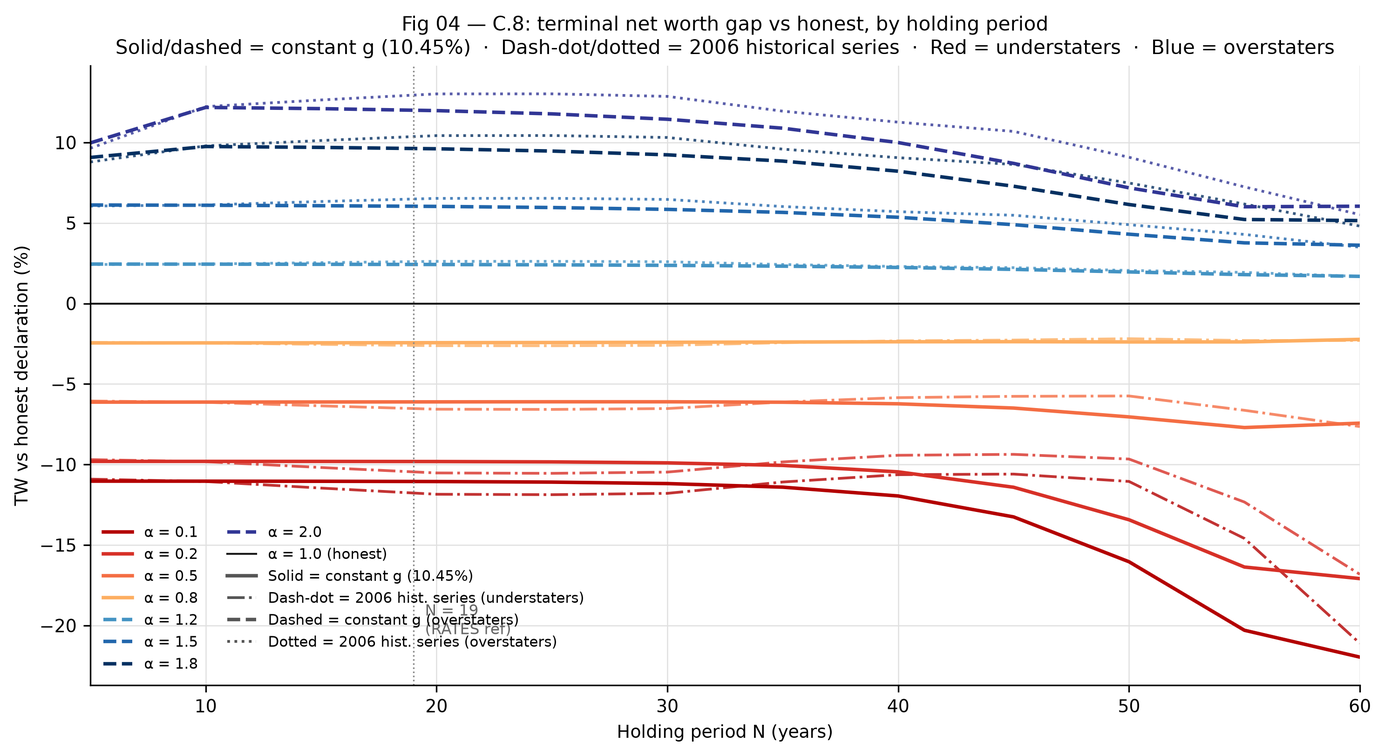
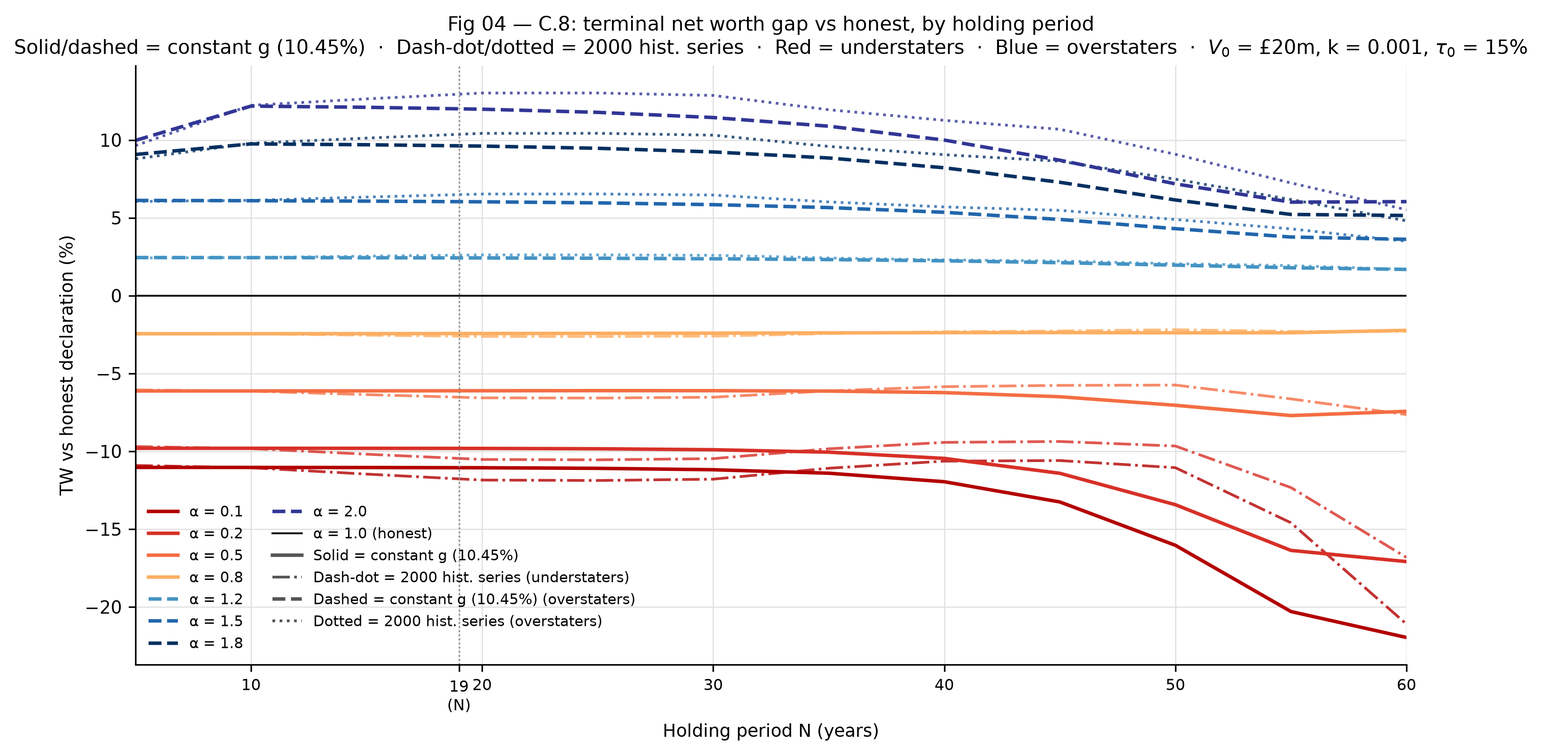
Fixed build pipeline

diff --git a/model/5_6_VAL_generate_figures.py b/model/5_6_VAL_generate_figures.py
@@ -53,6 +53,8 @@ import matplotlib.pyplot as plt
 import matplotlib.colors as mcolors
 import matplotlib.ticker
 import numpy as np
+from matplotlib.lines import Line2D
+from matplotlib.patches import Patch
 
 from wdt_core import (load_params, tau, simulate, simulate_sell,
                       settle_tw, run_sim, decompose_tw_advantage,
@@ -313,22 +315,32 @@ def fig_04_tw_gap_by_n(p):
                 linestyle=':', alpha=0.8)
 
     ax.axhline(0, color=C_HONEST, linewidth=1.0, linestyle='-', label='α = 1.0 (honest)')
-    ax.axvline(p['N'], color=C_ANNOTATION, linewidth=0.8, linestyle=':')
-    ylo = ax.get_ylim()[0]
-    ax.text(p['N'] + 0.5, ylo * 0.88,
-            f'N = {p["N"]}\n(RATES ref)', fontsize=8, color='#666666', va='bottom')
+    scen_N = p['N']
+    ax.axvline(scen_N, color=C_ANNOTATION, linewidth=0.8, linestyle=':')
+    # inject N into the existing x-axis ticks as a small labelled tick
+    existing_ticks = list(ax.get_xticks())
+    if scen_N not in existing_ticks:
+        existing_ticks = sorted(existing_ticks + [scen_N])
+        ax.set_xticks(existing_ticks)
+    tick_labels = [
+        f'{int(t)}\n(N)' if t == scen_N else (str(int(t)) if t == int(t) else '')
+        for t in ax.get_xticks()
+    ]
+    ax.set_xticklabels(tick_labels, fontsize=8)
+    ax.tick_params(axis='x', which='major')
 
-    from matplotlib.lines import Line2D
+    scen_year = p['scenario_start_year']
     style_handles = [
         Line2D([0], [0], color='#555555', lw=1.8, linestyle='-',
-               label='Solid = constant g (10.45%)'),
+            label=f'Solid = constant g ({p["g"]*100:.2f}%)'),
         Line2D([0], [0], color='#555555', lw=1.4, linestyle='-.',
-               label='Dash-dot = 2006 hist. series (understaters)'),
+            label=f'Dash-dot = {scen_year} hist. series (understaters)'),
         Line2D([0], [0], color='#555555', lw=1.8, linestyle='--',
-               label='Dashed = constant g (overstaters)'),
+            label=f'Dashed = constant g ({p["g"]*100:.2f}%) (overstaters)'),
         Line2D([0], [0], color='#555555', lw=1.4, linestyle=':',
-               label='Dotted = 2006 hist. series (overstaters)'),
+            label=f'Dotted = {scen_year} hist. series (overstaters)'),
     ]
+
     h1, l1 = ax.get_legend_handles_labels()
     ax.legend(handles=h1 + style_handles,
               loc='lower left', ncol=2, fontsize=7.5)
@@ -337,8 +349,10 @@ def fig_04_tw_gap_by_n(p):
     ax.set_ylabel("TW vs honest declaration (%)")
     ax.set_title(
         "Fig 04 — C.8: terminal net worth gap vs honest, by holding period\n"
-        "Solid/dashed = constant g (10.45%)  ·  Dash-dot/dotted = 2006 historical series  "
-        "·  Red = understaters  ·  Blue = overstaters"
+        f"Solid/dashed = constant g ({p['g']*100:.2f}%)  ·  "
+        f"Dash-dot/dotted = {scen_year} hist. series  ·  "
+        f"Red = understaters  ·  Blue = overstaters  ·  "
+        f"$V_0$ = £{p['V0_m']:.0f}m, k = {p['k']}, $\\tau_0$ = {p['tau_0']*100:.0f}%"
     )
     ax.set_xlim(N_ACTUAL_VALS[0], N_ACTUAL_VALS[-1])
 
@@ -432,8 +446,7 @@ def fig_05_saturation_reversal(p):
     ax.set_xlim(0, 35)
     ax.set_ylim(-5, 120)
 
-    from matplotlib.lines import Line2D
-    from matplotlib.patches import Patch
+
     legend_handles = [
         Line2D([0], [0], color='#333333', lw=1.1, linestyle='--',
                label=f'Inflection ≈ {mean_inflection:.1f}% (rate fn property)'),

diff --git a/pipeline/preprocess.py b/pipeline/preprocess.py
@@ -27,7 +27,7 @@ from pages.corpus import generate_corpus_qmd
 from pages.references import generate_references_qmd
 from pages.site_index import copy_machine_readable_assets
 from transforms import process_file, strip_latex, convert_crossrefs
-
+from link_map import generate_link_map_html
 
 # ── Tool metadata ─────────────────────────────────────────────────────────────
 # Maps source filename stem → (title, description)
@@ -200,6 +200,8 @@ def main() -> None:
         generate_flowcharts_qmd(build)
     else:
         print("  ! site/diagrams/ not found — skipping flowcharts.qmd")
+
+    generate_link_map_html(build / "link-map.html", site_cfg.refs_data, site_cfg.link_map)
 
     # ── Machine-readable static endpoints + site-index.json ──────────────
     copy_machine_readable_assets(

diff --git a/model/8_3_RATES_output.py b/model/8_3_RATES_output.py
@@ -121,10 +121,9 @@ def write_output_md(p, py_ssm, py_tcm, tcm_N, sweep_extremals, stats,
     4.  Start-year sweep
     5.  Statistical pass
     """
-    run_date = datetime.date.today().strftime('%y%m%d')
     meta     = p.get('meta', {})
     scenario = meta.get('scenario_label', 'unknown')
-    fname    = f"7_5_{run_date}_WDT_Rates_Revenue_Output.md"
+    fname    = f"7_5_WDT_Rates_Revenue_Output.md"
     _out     = Path(output_dir) if output_dir else OUTPUT_DIR
     _out.mkdir(parents=True, exist_ok=True)
     out_path = _out / fname

diff --git a/pipeline/link_map.py b/pipeline/link_map.py
@@ -338,7 +338,7 @@ let frozen = false;
 let animId = null;
 
 const NODE_W = 72, NODE_H = 32;
-const REPEL = 1800, ATTRACT = 0.012, DAMP = 0.94, CENTER_F = 0.006;
+const REPEL = 500, ATTRACT = 0.012, DAMP = 0.94, CENTER_F = 0.006;
 
 // ── Build links ───────────────────────────────────────────────────────────
 function buildLinks() {

diff --git a/docs/wdt-site-architecture.md b/docs/wdt-site-architecture.md
@@ -23,12 +23,13 @@ wdt-site/
 │   ├── config.py               (path constants, parse_human_date(), extract_paper_meta(), SiteConfig, load())
 │   ├── transforms.py           (6-step per-paper transforms: LaTeX strip, image paths, cross-refs, biblio, front matter, JSON-LD)
 │   ├── diagrams.py             (DIAGRAMS registry, render_pngs() via mmdc, generate_flowcharts_qmd())
+│   ├── link_map.py             (generate_link_map_html() — generates _build/link-map.html)
 │   └── pages/
 │       ├── __init__.py
 │       ├── corpus.py           (generate_corpus_qmd())
 │       ├── references.py       (generate_references_qmd())
 │       ├── site_index.py       (generate_site_index(), copy_machine_readable_assets())
-│       └── link_map.py         (generate_link_map_html())
+
 ├── registry/
 │   ├── contents.yml            (single source of truth for paper/section hierarchy — edit by hand)
 │   ├── anchors.yml             (fully generated by build_anchors.py — never edit directly)
@@ -56,7 +57,7 @@ wdt-site/
 │   ├── style/
 │   │   ├── styles.css          (main site-wide CSS)
 │   │   ├── page-components.css (reusable page component styles)
-│   │   ├── tools.css           (styles specific to the /model pages)
+│   │   ├── tools.css           (styles specific to the /tools/ pages)
 │   │   ├── apa.csl             (APA citation style — referenced by _quarto.yml)
 │   │   ├── svg-pan-zoom.min.js (vendored JS — may be unused since PNG migration; verify)
 │   │   └── geocities.html      (opt-in Geocities widget module — not auto-copied to _build/)
@@ -66,12 +67,12 @@ wdt-site/
 │   │   ├── 260812_WDT_Bidirectional_LR.mmd
 │   │   ├── 260812_UK_Tax_Flowchart_LR.mmd
 │   │   └── 260812_UK_Skeleton_LR.mmd
-│   └── model
+│   └── tools/
 │       ├── tools_index.html            (tools landing page — hand-authored)
 │       ├── taxpayer.html               (taxpayer journey interactive tool)
 │       ├── revenue.html                (revenue modeller interactive tool)
 │       ├── run_all.bat                 (batch script: regenerates all tool output files)
-│       ├── 260812_WDT_Params.toml      (shared WDT model parameter file)
+│       ├── WDT_Params.toml      (shared WDT model parameter file)
 │       ├── wdt_core.py                 (core WDT model: WDTModel class, simulation engine)
 │       ├── rates_model.py              (rates model)
 │       ├── val_helpers.py              (VAL paper output helpers)
@@ -139,7 +140,7 @@ Run order (anchors + preprocess only): `pipeline/build.bat` → `build_anchors.p
 - **step (8)** — copy static assets from `site/` into `_build/` (inline in `preprocess.py`)
 - **`pages/site_index.py`** — steps (9)–(10): copy machine-readable data, site-index.json
 - **`diagrams.py`** — step (11): render `.mmd` → PNG via `mmdc`, then write flowcharts.qmd referencing the PNGs
-- **`pages/link_map.py`** — step (12): generate `_build/link-map.html` from `internal_papers` in `refs_data`
+- **`link_map.py (in pipeline/)`** — step (12): generate `_build/link-map.html` from `internal_papers` in `refs_data`
 - **`config.py`** — path constants, `extract_paper_meta()`, `parse_human_date()`, `load(paper_meta)`
 
 ---
@@ -317,7 +318,7 @@ Thin orchestrator. Run order inside `main()`:
 4. Calls `cfg.load(paper_meta=paper_meta)` to build the `SiteConfig`.
 5. Deletes and recreates `_build/`.
 6. Copies `site/` assets into `_build/` (step 8 — see asset copy rules below).
-7. Copies `site/modelOUTPUTS/` → `_build/figures/` (if the directory exists).
+7. Copies `site/model/OUTPUTS/` → `_build/figures/` (if the directory exists).
 8. Calls the auto-generated page generators: `corpus.qmd`, `references.qmd`, `flowcharts.qmd`, machine-readable assets + `site-index.json`.
 9. Calls `process_file()` on each paper.
 
@@ -327,9 +328,9 @@ Thin orchestrator. Run order inside `main()`:
 |-------------|-----------|
 | `site/pages/*.md` | Flattened to `_build/` root; `.md` → `.qmd`; `strip_latex` + `convert_crossrefs` applied |
 | `site/pages/*.qmd` or other | Flattened to `_build/` root; copied verbatim |
-| `site/model*.html` | Copied to `_build/model`; **wrapped in Quarto front matter** via `_wrap_tool_html()`, saved as `.qmd` |
-| `site/model*.py` or `*.toml` | Copied to `_build/model` verbatim — these are **runtime files** that Pyodide loads in the browser |
-| `site/model` other files | Copied to `_build/model` verbatim |
+| `site/model/*.html` | Copied to `_build/model/`; **wrapped in Quarto front matter** via `_wrap_tool_html()`, saved as `.qmd` |
+| `site/model/*.py` or `*.toml` | Copied to `_build/model/` verbatim — these are **runtime files** that Pyodide loads in the browser |
+| `site/model/` other files | Copied to `_build/model/` verbatim |
 | Everything else in `site/` | Copied preserving relative path |
 
 **`_TOOL_META`:** A dict in `preprocess.py` mapping tool HTML stem → `(title, description)`. These become the Quarto front matter `title` and `description` for each tool page. When adding a new tool, add an entry here.
@@ -396,7 +397,7 @@ def load(paper_meta: dict | None = None) -> SiteConfig: ...
     # If omitted (e.g. in tests), uses empty dict and prints a warning.
 ```
 
-**`TOOLS_DIR`:** `ROOT_DIR / "tools"` — this path constant exists in `config.py` but the `model` directory at the repo root does not currently exist. It is likely reserved for a future standalone tools directory separate from `site/model`. Do not confuse with `site/model`.
+**`TOOLS_DIR`:** `ROOT_DIR / "tools"` — this path constant exists in `config.py` but the `tools/` directory at the repo root does not currently exist. It is likely reserved for a future standalone tools directory separate from `site/model/`. Do not confuse with `site/model/`.
 
 **Dependencies:** `registry/contents.yml`, `registry/anchors.yml`, `registry/references.json`, PyYAML
 **Dependants:** `preprocess.py` (calls `extract_paper_meta()` then `load(paper_meta=...)`); `transforms.py` (imports `AUTHOR`, `AFFILIATION`, `DISCLOSURE`, `SITE_URL`); `diagrams.py` (imports `AUTHOR`, `DIAGRAMS_DIR`)
@@ -410,7 +411,7 @@ Six per-paper text transforms applied in order by `process_file()`.
 
 1. **`strip_latex(text)`** — removes `\newpage`, `\medskip`, `\bigskip`, `\\`, `\vspace{...}`, `\hspace{...}`, `\setcounter{...}`, and other LaTeX layout/spacing commands.
 
-2. **`fix_image_paths(text)`** — rewrites all Markdown image paths to `figures/<filename>`. Source files may reference images as `../figures/foo.png`, `figures/foo.png`, or `site/modelOUTPUTS/RATES/foo.png` — all become `figures/foo.png`. This is correct because `preprocess.py` copies all images from `site/modelOUTPUTS/**/*` into `_build/figures/` (flat), and Quarto renders papers at the `_build/` root. HTTP/data URLs are left unchanged.
+2. **`fix_image_paths(text)`** — rewrites all Markdown image paths to `figures/<filename>`. Source files may reference images as `../figures/foo.png`, `figures/foo.png`, or `site/model/OUTPUTS/RATES/foo.png` — all become `figures/foo.png`. This is correct because `preprocess.py` copies all images from `site/model/OUTPUTS/**/*` into `_build/figures/` (flat), and Quarto renders papers at the `_build/` root. HTTP/data URLs are left unchanged.
 
 3. **`convert_crossrefs(text, link_map, anchor_map)`** — converts `(PAPER §X.Y)` and `PAPER §X.Y` patterns to Markdown hyperlinks. Resolves deep links via `anchor_map`; falls back to page root with a warning if section not found.
 
@@ -463,7 +464,7 @@ To add a diagram: add the `.mmd` file to `site/diagrams/` and add an entry to `D
 
 ---
 
-### `pipeline/pages/link_map.py`
+### `pipeline/link_map.py`
 Generates `_build/link-map.html` — the interactive paper cross-reference graph. Called by `preprocess.py` as step (12), after all other page generators.
 
 **`generate_link_map_html(dest_path, refs_data, link_map)`**
@@ -728,12 +729,13 @@ The Quarto project configuration. `preprocess.py` copies this to `_build/` verba
 
 **`project:`**
 - `type: website`, `output-dir: _site`
-- `render: ["*.qmd", "model*.qmd"]` — `model*.qmd` must be listed explicitly; Quarto does not recurse into subdirectories automatically
+- `render: ["*.qmd", "model/*.qmd"]` — `model/*.qmd` must be listed explicitly; Quarto does not recurse into subdirectories automatically
 - `resources:` — copies runtime files as static assets into `_site/`:
-  - `modelwdt_core.py`, `modelrates_model.py`, `model260812_WDT_Params.toml`
+  - `model/wdt_core.py`, `model/rates_model.py`, `model/WDT_Params.toml`
   - `diagrams/` (entire directory — PNGs served at `/diagrams/`)
+  - `link-map.html` (ensures Quarto includes it in `_site/` even though written directly to `_build/`)
 
-**Note on `resources:` vs `preprocess.py` copying:** Both are active. `preprocess.py` copies Python/TOML files into `_build/model` during preprocessing; `resources:` tells Quarto to additionally include them in `_site/` during rendering. The `resources:` block is the authoritative deployment mechanism.
+**Note on `resources:` vs `preprocess.py` copying:** Both are active. `preprocess.py` copies Python/TOML files into `_build/model/` during preprocessing; `resources:` tells Quarto to additionally include them in `_site/` during rendering. The `resources:` block is the authoritative deployment mechanism.
 
 **`website:`**
 - `title`, `description`, `site-url: https://wealthdeltatax.org`
@@ -751,7 +753,7 @@ The Quarto project configuration. `preprocess.py` copies this to `_build/` verba
 | Project Map | `Project-Map.html` |
 | Papers *(dropdown → `corpus.html`)* | see below |
 | Avoidance | `avoidance.html` |
-| Tools | `modeltools_index.html` |
+| Tools | `tools/tools_index.html` |
 | Flowcharts | `flowcharts.html` |
 | References | `references.html` |
 | Glossary | `glossary.html` |
@@ -812,7 +814,7 @@ Hand-authored pages. **Flattened** into the `_build/` root by `preprocess.py` (t
 | `avoidance.md` | `/avoidance.html` | Taxpayer's guide to legally minimising WDT liability | 654 lines; `toc: true` in front matter; includes live Pyodide calculator; uses `.avoid-intro`, `.strategy-block`, `.verdict-box` classes |
 | `revision_history.md` | `/revision_history.html` | Pre-publication revision history for all papers | Section headings use `{.unnumbered .unlisted}` — correctly skipped by `scrape_contents.py` |
 | `glossary.md` | `/glossary.html` | Master WDT glossary | **Generated** by `build_glossary.py` — never edit directly; 738 lines; jump bar covers A–W and Z (letters with no entries are omitted) |
-| `link-map.html` | `/link-map.html` | Interactive paper cross-reference graph | **Generated** by `pipeline/pages/link_map.py` — never edit directly; written to `_build/` not `site/pages/` |
+| `link-map.html` | `/link-map.html` | Interactive paper cross-reference graph | **Generated** by `pipeline/link_map.py` — never edit directly; written to `_build/` not `site/pages/` |
 | `BingSiteAuth.xml` | `/BingSiteAuth.xml` | Bing webmaster verification | Static passthrough — copied unchanged, not renamed to `.qmd` |
 
 Hand-authored pages do not go through paper preprocessing steps. `glossary.md` is overwritten on every full build — edit per-paper `# Glossary` sections in source to change its content.
@@ -821,7 +823,7 @@ Hand-authored pages do not go through paper preprocessing steps. `glossary.md` i
 
 **Note on `Project-Map.md`:** Has no YAML front matter — begins directly with a `# WDT Project Map` heading. `preprocess.py` handles this as a plain copy (flattened and renamed to `.qmd`); Quarto generates the title from the first heading.
 
-**Note on `avoidance.md`:** Contains a Pyodide-powered live calculator. The calculator loads `wdt_core.py` and `rates_model.py` from `/model` at runtime.
+**Note on `avoidance.md`:** Contains a Pyodide-powered live calculator. The calculator loads `wdt_core.py` and `rates_model.py` from `/tools/` at runtime.
 
 **Note on `BingSiteAuth.xml`:** Copied unchanged (not renamed to `.qmd`).
 
@@ -1024,33 +1026,33 @@ To add a diagram: add the `.mmd` file here and add an entry to `DIAGRAMS` in `pi
 
 ---
 
-### `site/model`
+### `site/model/`
 Self-contained interactive tools and the Python model scripts that generate their data. **This directory is not processed by `preprocess.py`.** HTML tool pages are pre-built and served as static files; Python scripts are run locally (via `run_all.bat`) to regenerate output data that the HTML pages consume.
 
 #### HTML tool pages (wrapped as `.qmd` by `preprocess.py`)
 
 | File | Served at | Purpose |
 |------|-----------|---------|
-| `tools_index.html` | `/modeltools_index.html` | Tools landing page |
-| `taxpayer.html` | `/modeltaxpayer.html` | Taxpayer journey interactive tool |
-| `revenue.html` | `/modelrevenue.html` | Revenue modeller interactive tool |
+| `tools_index.html` | `/tools/tools_index.html` | Tools landing page |
+| `taxpayer.html` | `/tools/taxpayer.html` | Taxpayer journey interactive tool |
+| `revenue.html` | `/tools/revenue.html` | Revenue modeller interactive tool |
 
-These are body-fragment HTML files with embedded JS. `preprocess.py` does **not** copy them as static HTML — it wraps each one in Quarto front matter + a `{=html}` raw pass-through block (via `_wrap_tool_html()`) and saves the result as a `.qmd` file in `_build/model`. Quarto then renders the `.qmd` into the site, giving each tool page a proper Quarto layout (navbar, sidebar, footer) while passing the HTML body through unmodified.
+These are body-fragment HTML files with embedded JS. `preprocess.py` does **not** copy them as static HTML — it wraps each one in Quarto front matter + a `{=html}` raw pass-through block (via `_wrap_tool_html()`) and saves the result as a `.qmd` file in `_build/model/`. Quarto then renders the `.qmd` into the site, giving each tool page a proper Quarto layout (navbar, sidebar, footer) while passing the HTML body through unmodified.
 
 `_TOOL_META` in `preprocess.py` maps each HTML stem → `(title, description)` for the Quarto front matter. Add an entry here when adding a new tool page.
 
-#### Python model scripts (runtime files — deployed to `_build/model`)
+#### Python model scripts (runtime files — deployed to `_build/model/`)
 
-The Python scripts in `site/model` **are copied into `_build/model`**. They are loaded at runtime in the browser by **Pyodide** (a Python interpreter compiled to WebAssembly). No Python execution happens on the server — the scripts run client-side when the user interacts with a tool page. `_TOOL_RUNTIME_SUFFIXES = {".py", ".toml"}` in `preprocess.py` controls which suffixes are treated as runtime files and copied verbatim.
+The Python scripts in `site/model/` **are copied into `_build/model/`**. They are loaded at runtime in the browser by **Pyodide** (a Python interpreter compiled to WebAssembly). No Python execution happens on the server — the scripts run client-side when the user interacts with a tool page. `_TOOL_RUNTIME_SUFFIXES = {".py", ".toml"}` in `preprocess.py` controls which suffixes are treated as runtime files and copied verbatim.
 
-The numbered output scripts (`5_3`, `5_4`, `5_6`, `8_3`, `16_2`–`16_7`) are run **locally** (via `run_all.bat`) to regenerate static output data (figures, tables). They are not loaded by Pyodide. Their outputs land in `site/modelOUTPUTS/`, which `preprocess.py` copies to `_build/figures/`.
+The numbered output scripts (`5_3`, `5_4`, `5_6`, `8_3`, `16_2`–`16_7`) are run **locally** (via `run_all.bat`) to regenerate static output data (figures, tables). They are not loaded by Pyodide. Their outputs land in `site/model/OUTPUTS/`, which `preprocess.py` copies to `_build/figures/`.
 
-#### `site/modelOUTPUTS/`
+#### `site/model/OUTPUTS/`
 Generated image and data outputs from the local model scripts. **Not committed to the repo** (in `.gitignore`). `preprocess.py` copies everything in this directory to `_build/figures/` at build time. If the directory does not exist, the figure copy step is skipped with a warning.
 
 | File | Role |
 |------|------|
-| `260812_WDT_Params.toml` | Shared parameter file for the WDT simulation model |
+| `WDT_Params.toml` | Shared parameter file for the WDT simulation model |
 | `wdt_core.py` | Core WDT model: `WDTModel` class and simulation engine |
 | `rates_model.py` | Rates model |
 | `val_helpers.py` | VAL paper output helpers |
@@ -1140,12 +1142,12 @@ After `preprocess.py` completes, `_build/` contains a complete Quarto project:
 - `glossary.qmd` — from `site/pages/glossary.md` (generated by `build_glossary.py`), flattened and renamed to `.qmd`
 - `BingSiteAuth.xml` — from `site/pages/`, copied unchanged (not renamed to `.qmd`)
 - `style/styles.css`, `style/page-components.css`, `style/tools.css`, `style/apa.csl`, `style/svg-pan-zoom.min.js` — from `site/style/`, path preserved
-- `modeltools_index.qmd`, `modeltaxpayer.qmd`, `modelrevenue.qmd` — HTML tool pages **wrapped as `.qmd`** by `_wrap_tool_html()`; not raw HTML
-- `model*.py`, `model*.toml` — runtime files (loaded by Pyodide client-side); copied verbatim from `site/model`
-- `link-map.html` — generated directly to `_build/` by `pipeline/pages/link_map.py` (not copied from `site/pages/`)
+- `tools/tools_index.qmd`, `tools/taxpayer.qmd`, `tools/revenue.qmd` — HTML tool pages **wrapped as `.qmd`** by `_wrap_tool_html()`; not raw HTML
+- `tools/*.py`, `tools/*.toml` — runtime files (loaded by Pyodide client-side); copied verbatim from `site/model/`
+- `link-map.html` — generated directly to `_build/` by `pipeline/link_map.py` (not copied from `site/pages/`)
 - `diagrams/` — PNG renders of all five `.mmd` diagrams at 3600px width, output by `render_pngs()`; also declared in `resources:` so Quarto includes them in `_site/`
 - `style/geocities.html` — copied by Quarto (via `include-in-header`) from `site/style/`; not copied by `preprocess.py`
-- `figures/` — image outputs copied from `site/modelOUTPUTS/` (if directory exists)
+- `figures/` — image outputs copied from `site/model/OUTPUTS/` (if directory exists)
 
 After `quarto render _build`, the rendered site appears at `_build/_site/`. This is the directory uploaded to GitHub Pages.
 
@@ -1215,7 +1217,7 @@ Copied into `_build/` at each build and served as static files.
 
 **Sidebar cross-page expansion is not supported by Quarto.** Section links in the sidebar are only interactively expandable when on that paper's page. This is a Quarto JS constraint, not a configuration issue.
 
-**`site/model` `.py` and `.toml` files are deployed to `_build/model`** and served publicly. This is intentional — they are loaded client-side by Pyodide. The numbered output scripts (`5_3`, `5_4`, etc.) are also deployed but are not called by Pyodide; they are inert on the server. `.bat` files are not in `_TOOL_RUNTIME_SUFFIXES` and fall through to the verbatim-copy else branch — verify whether they should be excluded.
+**`site/model/` `.py` and `.toml` files are deployed to `_build/model/`** and served publicly. This is intentional — they are loaded client-side by Pyodide. The numbered output scripts (`5_3`, `5_4`, etc.) are also deployed but are not called by Pyodide; they are inert on the server. `.bat` files are not in `_TOOL_RUNTIME_SUFFIXES` and fall through to the verbatim-copy else branch — verify whether they should be excluded.
 
 **`mmdc` is installed on the CI runner** via the Install Mermaid CLI step in `deploy.yml`. The Puppeteer sandbox config is correctly set up. On local Windows builds, `mmdc` must be installed separately: `npm install -g @mermaid-js/mermaid-cli`.
 
@@ -1225,7 +1227,7 @@ Copied into `_build/` at each build and served as static files.
 
 ## What is not yet in scope
 
-- Additional interactive tools — `site/model` is active and wired into the build; new tools follow the same pattern as `taxpayer.html` / `revenue.html`.
+- Additional interactive tools — `site/model/` is active and wired into the build; new tools follow the same pattern as `taxpayer.html` / `revenue.html`.
 - Right-hand panel content (live parameters, diagrams, search) — TOC panel is active; right panel available for future use.
 - Donations, contact, newsletter — reserved at `/about/` and `/contribute/`.
 - PDF pipeline — separate, uses pandoc + LaTeX, entirely independent of this build.
@@ -1244,14 +1246,14 @@ Copied into `_build/` at each build and served as static files.
 8. If it is a main paper (not an appendix), add it to the navbar Papers dropdown in `site/_quarto.yml`; appendix papers go in the sidebar only
 9. Add the paper to `site/pages/research.md` paper listing
 10. Update `site/pages/Project-Map.md` if the summary document covers the new paper
-11. Add the shortcode and group to `_GROUPS` in `pipeline/pages/link_map.py`
+11. Add the shortcode and group to `_GROUPS` in `pipeline/link_map.py`
 
 ## Adding a new tool page — checklist
 
-1. Author the HTML tool page (body fragment, no `<html>`/`<head>`) in `site/model`
+1. Author the HTML tool page (body fragment, no `<html>`/`<head>`) in `site/model/`
 2. Add an entry to `_TOOL_META` in `pipeline/preprocess.py` — `"stem": ("Page title", "Description string")` — so the Quarto front matter is populated correctly
-3. If the tool uses Pyodide to run Python, add the required `.py` and `.toml` model files to `site/model` — they will be copied to `_build/model` automatically
-4. If the tool requires locally-generated static outputs (figures, tables), add the corresponding output script(s) to `site/model` and add the run command to `site/modelrun_all.bat`; outputs go to `site/modelOUTPUTS/` and are copied to `_build/figures/`
+3. If the tool uses Pyodide to run Python, add the required `.py` and `.toml` model files to `site/model/` — they will be copied to `_build/model/` automatically
+4. If the tool requires locally-generated static outputs (figures, tables), add the corresponding output script(s) to `site/model/` and add the run command to `site/model/run_all.bat`; outputs go to `site/model/OUTPUTS/` and are copied to `_build/figures/`
 5. Add any tool-specific CSS to `site/style/tools.css`
-6. Link to the new tool from `site/modeltools_index.html`
+6. Link to the new tool from `site/model/tools_index.html`
 7. Add a navbar or sidebar entry in `site/_quarto.yml` if the tool should be discoverable from navigation
